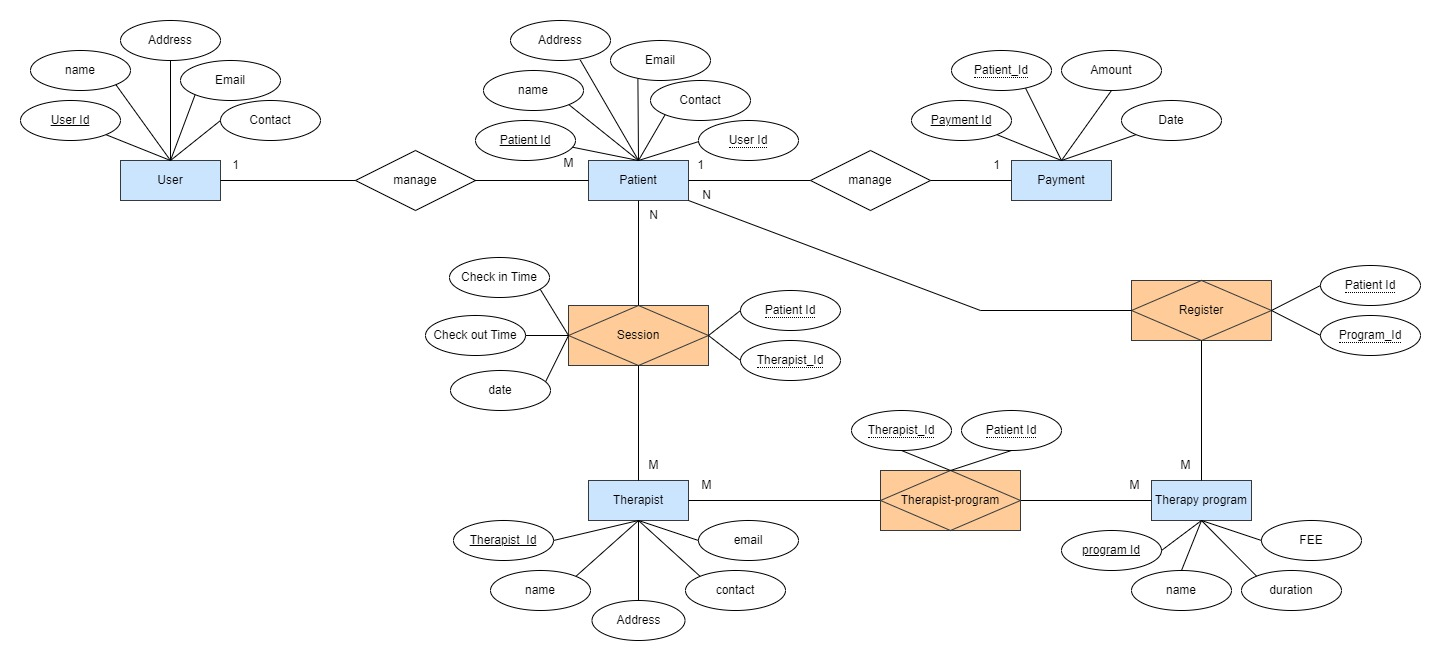
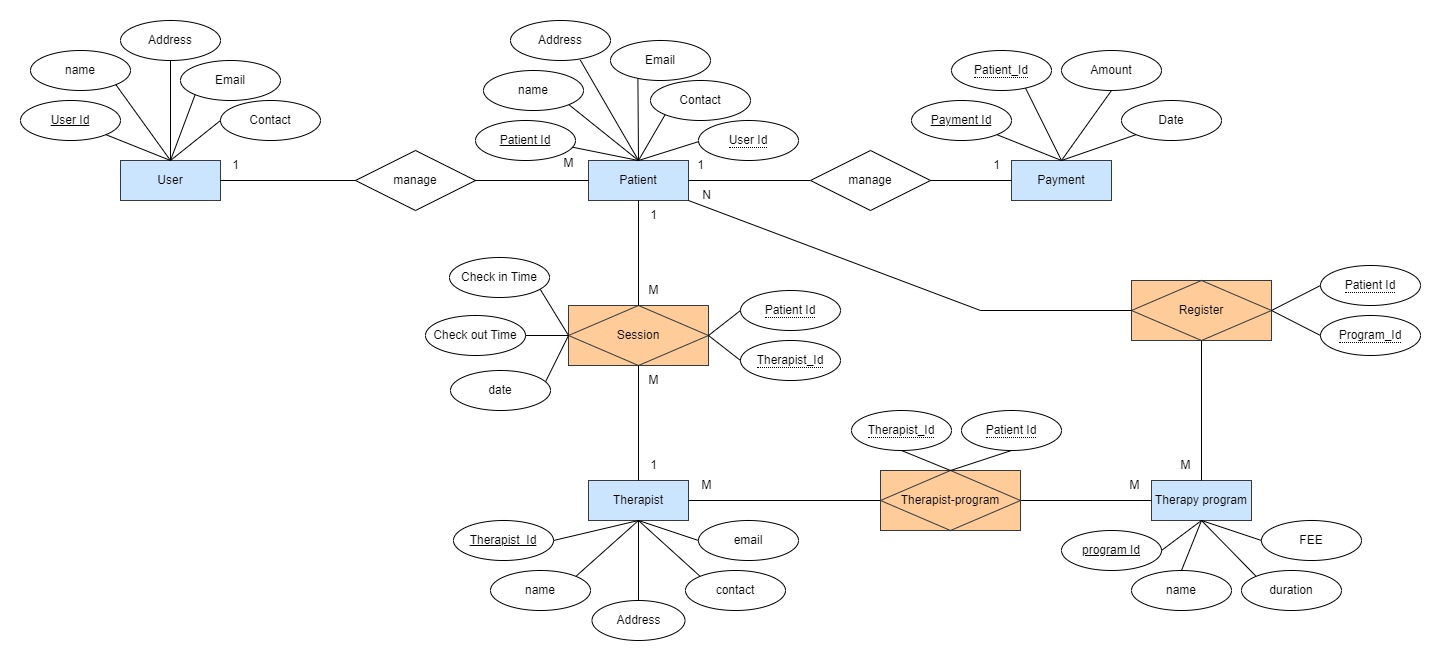
created but in sesson there have an error Fu...

diff --git a/src/main/java/org/example/entities/Associatentities/sessoins.java b/src/main/java/org/example/entities/Associatentities/sessoins.java
@@ -1,0 +1,35 @@
+package org.example.entities.Associatentities;
+
+import jakarta.persistence.*;
+import lombok.AllArgsConstructor;
+import lombok.Getter;
+import lombok.NoArgsConstructor;
+import lombok.Setter;
+import org.example.entities.Patient;
+import org.example.entities.Therapist;
+
+import java.sql.Date;
+import java.time.LocalTime;
+
+@Entity
+@AllArgsConstructor
+@NoArgsConstructor
+@Getter
+@Setter
+public class sessoins {
+//    @EmbeddedId
+    @Id
+    private String sessionIds;
+
+    @ManyToOne
+    @JoinColumn(name = "patient_Id")
+    private Patient patient;
+
+    @ManyToOne
+    @JoinColumn(name = "therapist_Id")
+    private Therapist therapist;
+
+    private LocalTime checkInTime;
+    private LocalTime checkOutTime;
+    private Date date;
+}

diff --git a/src/main/java/org/example/entities/Therapist.java b/src/main/java/org/example/entities/Therapist.java
@@ -1,13 +1,11 @@
 package org.example.entities;
 
-import jakarta.persistence.Column;
-import jakarta.persistence.Entity;
-import jakarta.persistence.Id;
-import jakarta.persistence.ManyToMany;
+import jakarta.persistence.*;
 import lombok.AllArgsConstructor;
 import lombok.Getter;
 import lombok.NoArgsConstructor;
 import lombok.Setter;
+import org.example.entities.Associatentities.sessoins;
 
 import java.util.List;
 
@@ -29,4 +27,7 @@ public class Therapist {
 
     @ManyToMany
     private List<TherapyProgram> therapyPrograms;
+
+    @OneToMany(mappedBy = "therapist")
+    private List<sessoins> sessions;
 }

diff --git a/src/main/java/org/example/config/FactoryCongig.java b/src/main/java/org/example/config/FactoryCongig.java
@@ -1,6 +1,7 @@
 package org.example.config;
 
 import org.example.entities.*;
+import org.example.entities.Associatentities.sessoins;
 import org.hibernate.Session;
 import org.hibernate.SessionFactory;
 import org.hibernate.cfg.Configuration;
@@ -18,6 +19,7 @@ public class FactoryCongig {
         configuration.addAnnotatedClass(Payment.class);
         configuration.addAnnotatedClass(TherapyProgram.class);
         configuration.addAnnotatedClass(Therapist.class);
+        configuration.addAnnotatedClass(sessoins.class);
 
         sessionFactory = configuration.buildSessionFactory();
     }

diff --git a/src/main/java/org/example/entities/Patient.java b/src/main/java/org/example/entities/Patient.java
@@ -1,7 +1,6 @@
 package org.example.entities;
 
 import jakarta.persistence.*;
-import jdk.dynalink.linker.LinkerServices;
 import lombok.AllArgsConstructor;
 import lombok.Getter;
 import lombok.NoArgsConstructor;
@@ -34,4 +33,7 @@ public class Patient {
 
     @ManyToMany(mappedBy = "patients")
     private List<TherapyProgram> therapyPrograms;
+
+    @OneToMany(mappedBy = "patient")
+    private List<org.example.entities.Associatentities.sessoins> sessoins;
 }

diff --git a/src/main/java/org/example/entities/Associatentities/sessionIds.java b/src/main/java/org/example/entities/Associatentities/sessionIds.java
@@ -1,0 +1,17 @@
+package org.example.entities.Associatentities;
+
+import jakarta.persistence.Embeddable;
+import lombok.AllArgsConstructor;
+import lombok.Getter;
+import lombok.NoArgsConstructor;
+import lombok.Setter;
+
+@Embeddable
+@AllArgsConstructor
+@NoArgsConstructor
+@Getter
+@Setter
+public class sessionIds {
+    private String therapist;
+    private String patient;
+}
